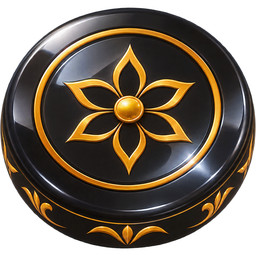
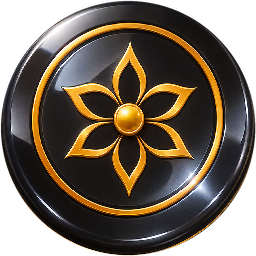
Carrom: round, thicker-looking and larger pieces
The supplied pucks were drawn at an angle, so on the board they looked
like squashed ovals. Each piece now shows its top face as a true circle
sitting on a short coloured side band drawn in code (gold edge for coins),
which reads as a thick disc seen from just above. Coins and the striker
are larger.

Claude-Session: https://claude.ai/code/session_012rtvhD4k8JPKrUCCDGJ4PR

diff --git a/lib/screens/carrom_screen.dart b/lib/screens/carrom_screen.dart
@@ -438,8 +438,7 @@ class _CarromScreenState extends State<CarromScreen>
                               top: at.dy * size - d / 2,
                               width: d,
                               height: d,
-                              child: Image.asset(_pieceAsset[p.kind]!,
-                                  filterQuality: FilterQuality.medium),
+                              child: _Puck(kind: p.kind),
                             );
                           }(),
                     ],
@@ -638,7 +637,7 @@ class _TablePainter extends CustomPainter {
     for (final p in game.pieces) {
       if (p.pocketed) continue;
       canvas.drawCircle(
-          (p.pos + const Offset(.004, .007)) * s, p.radius * s * 1.02, shadow);
+          (p.pos + Offset(.003, p.radius * .45)) * s, p.radius * s * 1.05, shadow);
     }
 
     // Light trail behind a moving striker.
@@ -877,6 +876,59 @@ class _TablePainter extends CustomPainter {
 
   @override
   bool shouldRepaint(_TablePainter old) => true;
+}
+
+/// A piece seen from just above: its round face sitting on a short
+/// coloured side, so it reads as a thick disc rather than a flat sticker.
+class _Puck extends StatelessWidget {
+  const _Puck({required this.kind});
+  final PieceKind kind;
+
+  static const _side = {
+    PieceKind.white: (Color(0xFFC81E2A), Color(0xFF6E0A10)),
+    PieceKind.black: (Color(0xFF2A2A2E), Color(0xFF050506)),
+    PieceKind.queen: (Color(0xFFA0101C), Color(0xFF4A0208)),
+    PieceKind.striker: (Color(0xFF1F4FD6), Color(0xFF0A1F66)),
+  };
+
+  @override
+  Widget build(BuildContext context) {
+    final (light, dark) = _side[kind]!;
+    return LayoutBuilder(builder: (context, box) {
+      final d = box.maxWidth, depth = d * .13;
+      return Stack(
+        clipBehavior: Clip.none,
+        children: [
+          // The side band, peeking out below the face.
+          Positioned(
+            left: 0,
+            top: depth,
+            width: d,
+            height: d,
+            child: DecoratedBox(
+              decoration: BoxDecoration(
+                shape: BoxShape.circle,
+                gradient: LinearGradient(
+                  begin: Alignment.centerLeft,
+                  end: Alignment.centerRight,
+                  colors: [dark, light, dark],
+                  stops: const [0, .45, 1],
+                ),
+                border: Border(
+                  bottom: BorderSide(
+                      color: const Color(0xFFE3B341), width: d * .025),
+                ),
+              ),
+            ),
+          ),
+          Positioned.fill(
+            child: Image.asset(_pieceAsset[kind]!,
+                filterQuality: FilterQuality.medium),
+          ),
+        ],
+      );
+    });
+  }
 }
 
 /// Slides the striker along the baseline.

diff --git a/lib/game/carrom_game.dart b/lib/game/carrom_game.dart
@@ -22,7 +22,7 @@ class CarromPiece {
 abstract final class Carrom {
   static const left = .110, right = .890, top = .1165, bottom = .8835;
   static const centre = Offset(.5, .5);
-  static const coinR = .0215, strikerR = .0285;
+  static const coinR = .0245, strikerR = .0315;
   static const pockets = [
     Offset(.1252, .1292),
     Offset(.8757, .1300),
